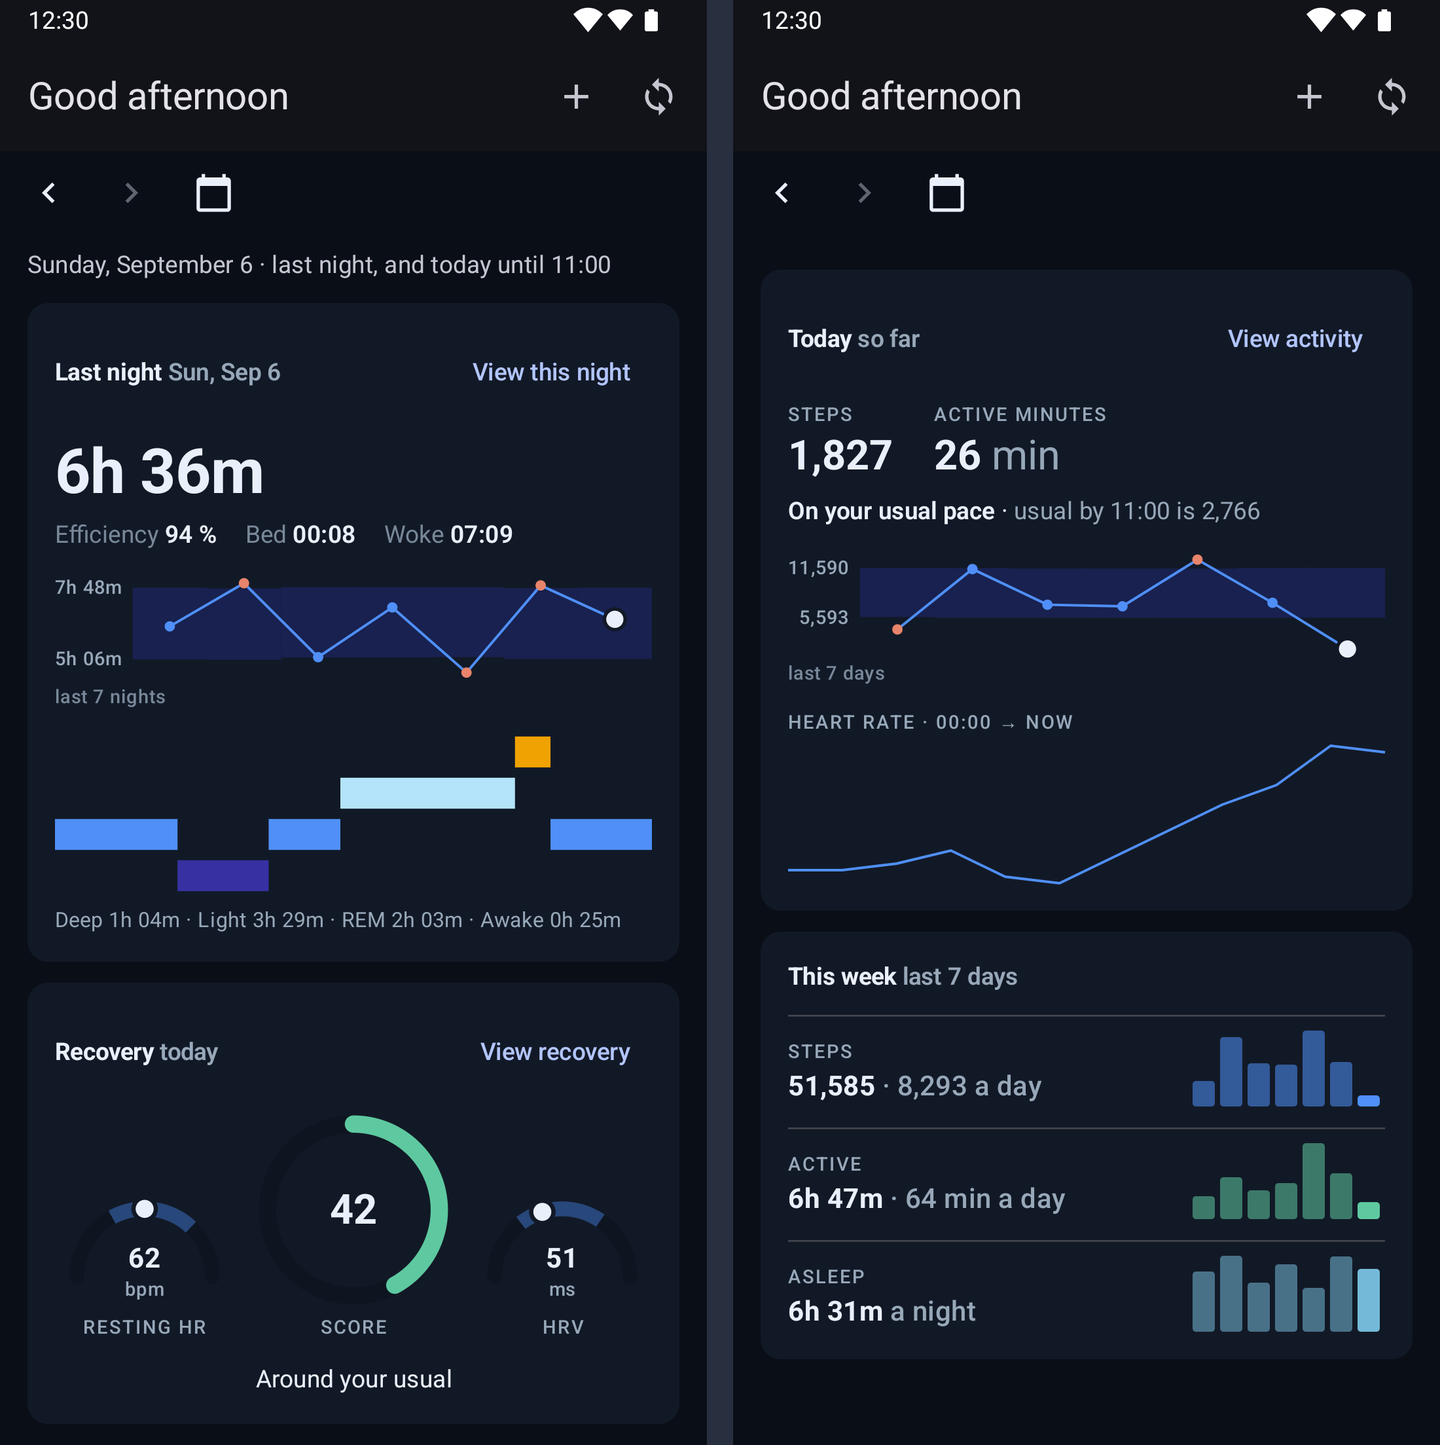
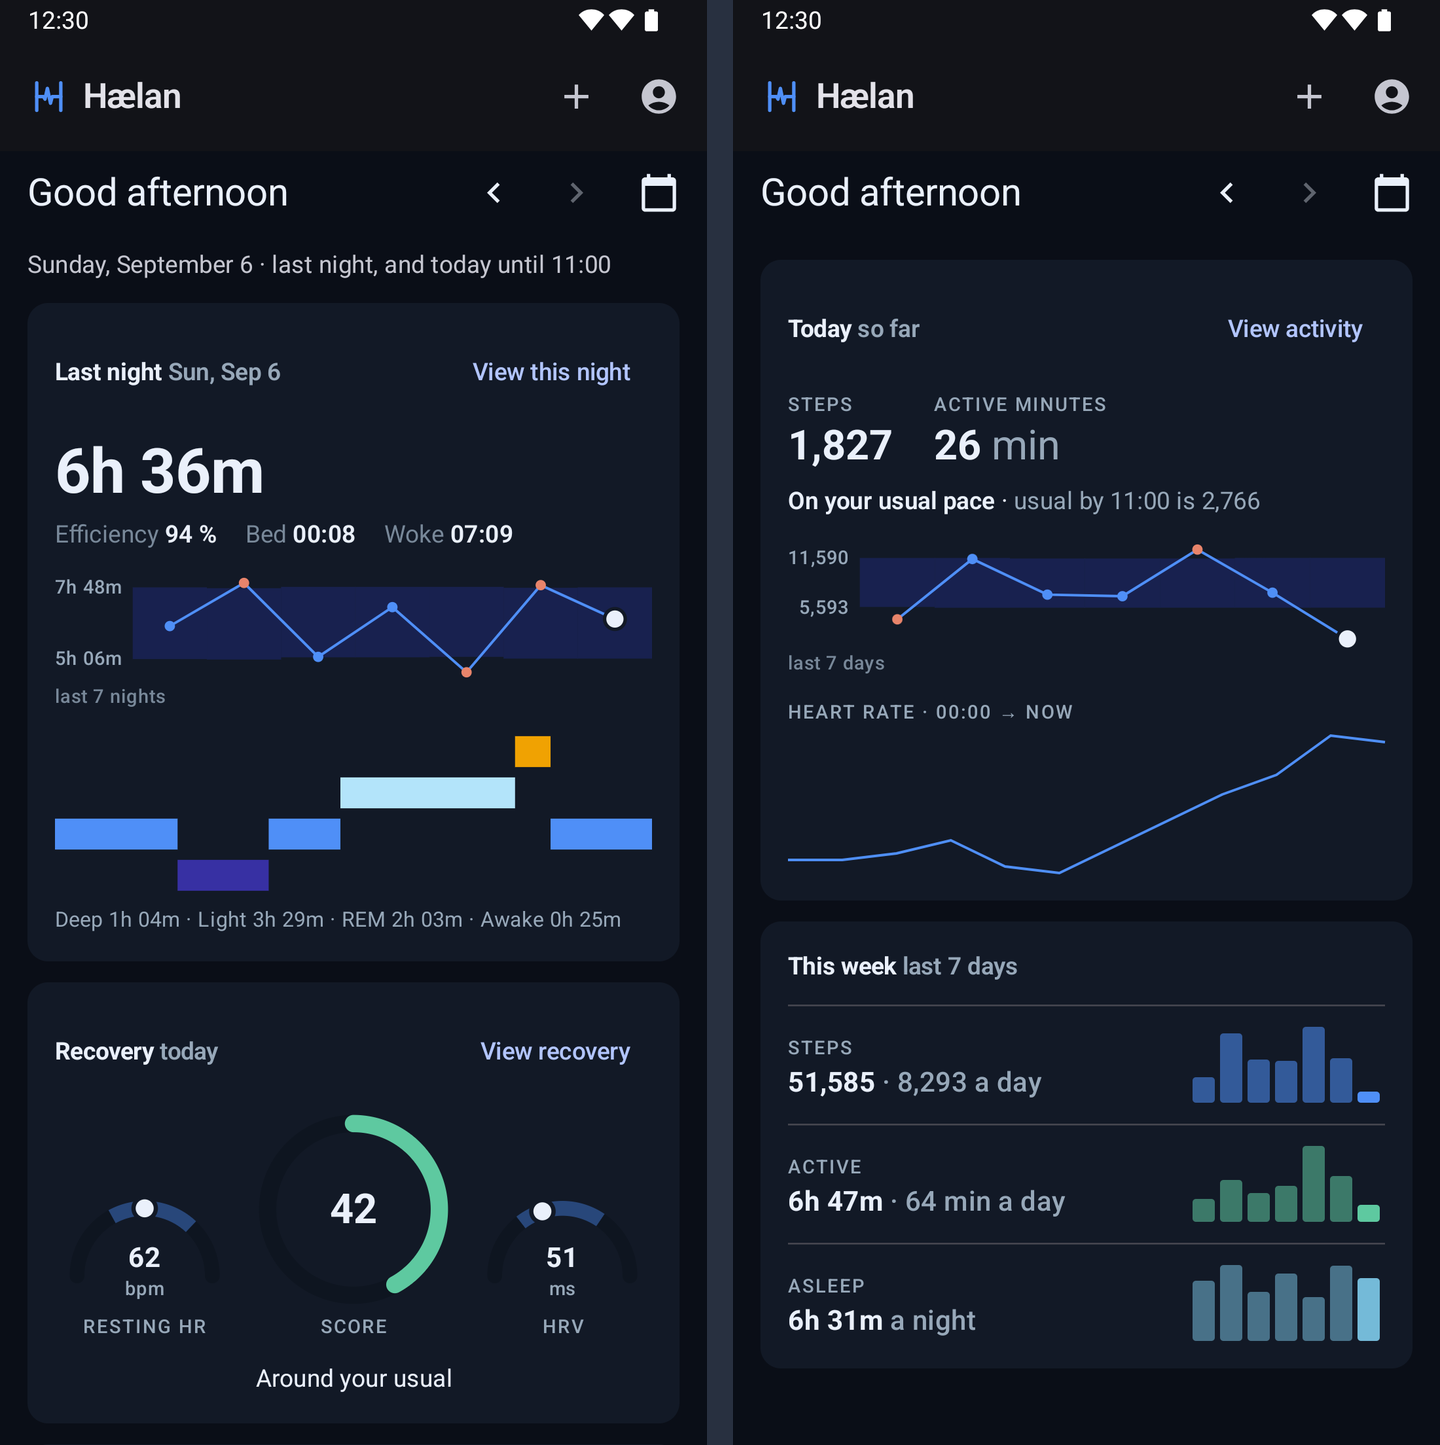
feat(android): the glance's top bar carries the brand, the day row its title
The top bar now opens with the mark and the name, as the web shell's top left
does, and ends with + and an account button (Material account_circle, with a
"Sync & account" tooltip) in place of the sync arrows; it opens the same sync
screen. The greeting, or the short date on a past day, moves to the start of
the day row, ellipsizing before the arrows, the calendar and Today are pushed
off at 360dp.

ic_brand_mark now writes the web's two paths word for word, and the web's
brand-mark test holds it to render-icons.mjs with the other copies. The README
phone screenshot is retaken with the new header.

diff --git a/apps/android/app/src/main/java/com/haelan/android/glance/ui/GlanceScreen.kt b/apps/android/app/src/main/java/com/haelan/android/glance/ui/GlanceScreen.kt
@@ -5,7 +5,6 @@ import androidx.compose.foundation.layout.Box
 import androidx.compose.foundation.layout.BoxWithConstraints
 import androidx.compose.foundation.layout.Column
 import androidx.compose.foundation.layout.Row
-import androidx.compose.foundation.layout.Spacer
 import androidx.compose.foundation.layout.fillMaxSize
 import androidx.compose.foundation.layout.fillMaxWidth
 import androidx.compose.foundation.layout.heightIn
@@ -17,10 +16,15 @@ import androidx.compose.material3.ExperimentalMaterial3Api
 import androidx.compose.material3.Icon
 import androidx.compose.material3.IconButton
 import androidx.compose.material3.MaterialTheme
+import androidx.compose.material3.PlainTooltip
 import androidx.compose.material3.Scaffold
 import androidx.compose.material3.Text
 import androidx.compose.material3.TextButton
+import androidx.compose.material3.TooltipAnchorPosition
+import androidx.compose.material3.TooltipBox
+import androidx.compose.material3.TooltipDefaults
 import androidx.compose.material3.TopAppBar
+import androidx.compose.material3.rememberTooltipState
 import androidx.compose.material3.pulltorefresh.PullToRefreshBox
 import androidx.compose.runtime.Composable
 import androidx.compose.runtime.LaunchedEffect
@@ -36,12 +40,16 @@ import androidx.compose.ui.platform.LocalResources
 import androidx.compose.ui.res.painterResource
 import androidx.compose.ui.res.stringResource
 import androidx.compose.ui.semantics.LiveRegionMode
+import androidx.compose.ui.semantics.clearAndSetSemantics
+import androidx.compose.ui.semantics.contentDescription
 import androidx.compose.ui.semantics.heading
 import androidx.compose.ui.semantics.liveRegion
 import androidx.compose.ui.semantics.semantics
+import androidx.compose.ui.text.font.FontWeight
 import androidx.compose.ui.text.style.TextAlign
 import androidx.compose.ui.text.style.TextOverflow
 import androidx.compose.ui.unit.dp
+import androidx.compose.ui.unit.sp
 import com.haelan.android.R
 import com.haelan.android.glance.CalendarUiState
 import com.haelan.android.glance.Glance
@@ -179,18 +187,19 @@ fun rememberCardText(zone: ZoneId): CardText {
 }
 
 /**
- * The glance: the web dashboard's phone layout, the cards stacked under a top bar that greets on
- * today and names the date on a finished day. Draws [state] and nothing else; every tap leaves
+ * The glance: the web dashboard's phone layout, the cards stacked under a top bar that carries the
+ * brand, and a day row that greets on today and names the date on a finished day ([dayTitle]).
+ * Draws [state] and nothing else; every tap leaves
  * through a callback, [onOpenDay] for an arrow, a strip dot, a week bar or a calendar day (a local
  * date from the payload) and [onOpenPage] for a card's link or a workout row (the web path it would
  * open, and the card's heading as the opened page's title).
  *
- * A row under the top bar carries the day controls ([DayNavState]): ‹ and ›, the calendar, and
- * Today on a past day. Pulling the page down asks again ([onRefresh]), as Try again does on the unreachable page;
+ * A row under the top bar carries that title and the day controls ([DayNavState]): ‹ and ›, the
+ * calendar, and Today on a past day. Pulling the page down asks again ([onRefresh]), as Try again does on the unreachable page;
  * the pull's spinner shows only for a pull, since the page also revalidates on its own (on resume,
  * after a sync) and the web does not announce those either.
  *
- * A + beside sync opens the log sheet ([onOpenLog]) only when the glance carries `log`, which is
+ * A + beside the account button (the way to sync) opens the log sheet ([onOpenLog]) only when the glance carries `log`, which is
  * the person's quick-logging switch as the server reports it; the sheet itself is [logSheet],
  * drawn while it is open, with [logActions] for everything done in it.
  *
@@ -218,23 +227,18 @@ fun GlanceScreen(
 ) {
     val shownDay = state?.shownDay
     val nav = DayNavState.from(state)
-    val title = if (shownDay == null) text.words.greeting(nowMs) else GlanceFormat.headerDate(shownDay, text.locale, short = true)
+    val title = dayTitle(shownDay, text.words, text.locale, nowMs)
     Scaffold(
         topBar = {
             TopAppBar(
-                title = { Text(title, maxLines = 1, overflow = TextOverflow.Ellipsis) },
+                title = { Brand() },
                 actions = {
                     if (showsLogButton(state, nowMs, text.zone)) {
                         IconButton(onClick = onOpenLog) {
                             Icon(painterResource(R.drawable.ic_add), stringResource(R.string.log_panel_open))
                         }
                     }
-                    IconButton(onClick = onOpenSync) {
-                        Icon(
-                            painter = painterResource(R.drawable.ic_sync),
-                            contentDescription = stringResource(R.string.glance_sync_open),
-                        )
-                    }
+                    AccountButton(onOpenSync)
                 },
             )
         },
@@ -247,7 +251,7 @@ fun GlanceScreen(
         Column(Modifier.fillMaxSize().padding(padding)) {
             // Outside the scroll and the stepping dim, on every body: always reachable, always at
             // full strength, and the page keeps its shape whether or not there is a day to step to.
-            DayRow(nav, onOpenDay, onToday, onOpenCalendar)
+            DayRow(title, nav, onOpenDay, onToday, onOpenCalendar)
             PullToRefreshBox(
                 isRefreshing = pulled && loading,
                 onRefresh = {
@@ -284,27 +288,89 @@ fun GlanceScreen(
 }
 
 /**
- * ‹, ›, the calendar and, on a past day, Today: the web's DayNav, on its own row under the top bar
- * as the web header has it, since a 360dp bar holding them beside the title and sync left the title
- * a few letters. Disabled rather than hidden where there is nowhere to go, so the row keeps its
- * shape; Today alone comes and goes, at the far end, as on the web. Touch only: the web's arrow keys
- * and T are a keyboard's, and a phone has none.
+ * The day row's title: the greeting on today, the short date ("Sat, Sep 5") on a past day, as the
+ * web's header title is. The greeting is the one thing here the payload does not say: it is the
+ * person's hour at [nowMs], not a fact about their data.
+ */
+internal fun dayTitle(shownDay: String?, words: GlanceWords, locale: Locale, nowMs: Long): String =
+    if (shownDay == null) words.greeting(nowMs) else GlanceFormat.headerDate(shownDay, locale, short = true)
+
+/**
+ * The top bar's start: the mark and the name, the pairing the web shell puts in its top left, so
+ * the glance says whose app it is where the sign-in and sync screens do. One description for the
+ * two, the name (the mark alone says nothing a reader could hear), and no action: it is not a
+ * button. "Hælan" is the brand, the same in every language, so it is app_name rather than copy.
+ */
+@Composable
+private fun Brand() {
+    val name = stringResource(R.string.app_name)
+    Row(
+        verticalAlignment = Alignment.CenterVertically,
+        horizontalArrangement = Arrangement.spacedBy(8.dp),
+        modifier = Modifier.clearAndSetSemantics { contentDescription = name },
+    ) {
+        Icon(painterResource(R.drawable.ic_brand_mark), contentDescription = null, tint = LocalGlanceColors.current.accent)
+        // A wordmark rather than a title: a step smaller than the day's title below it and heavier,
+        // as the approved header has it, so the two do not read as two headings of one size.
+        Text(
+            name,
+            style = MaterialTheme.typography.titleLarge.copy(fontSize = 20.sp, fontWeight = FontWeight.SemiBold, letterSpacing = (-0.2).sp),
+            maxLines = 1,
+        )
+    }
+}
+
+/**
+ * The way to the sync screen, which also holds the account and sign-out: Material's account
+ * symbol, as a phone app's top-right corner reads. A long press names it, since the symbol alone
+ * does not say that sync is behind it.
+ */
+@OptIn(ExperimentalMaterial3Api::class)
+@Composable
+private fun AccountButton(onOpenSync: () -> Unit) {
+    val label = stringResource(R.string.glance_account_open)
+    TooltipBox(
+        // Below: the button sits at the top of the screen, where above has no room.
+        positionProvider = TooltipDefaults.rememberTooltipPositionProvider(TooltipAnchorPosition.Below),
+        tooltip = { PlainTooltip { Text(label) } },
+        state = rememberTooltipState(),
+    ) {
+        IconButton(onClick = onOpenSync) {
+            Icon(painterResource(R.drawable.ic_account), contentDescription = label)
+        }
+    }
+}
+
+/**
+ * The day's title, then ‹, ›, the calendar and, on a past day, Today: the web's header row, its
+ * title beside its DayNav, on its own row under the top bar. The title takes what the controls
+ * leave and ellipsizes, so at 360dp a long date shortens rather than pushing Today off the edge.
+ * The controls are disabled rather than hidden where there is nowhere to go, so the row keeps its
+ * shape; Today alone comes and goes, at the far end, as on the web. Touch only: the web's arrow
+ * keys and T are a keyboard's, and a phone has none.
  */
 @Composable
 private fun DayRow(
+    title: String,
     nav: DayNavState,
     onOpenDay: (String) -> Unit,
     onToday: () -> Unit,
     onOpenCalendar: (selected: String, today: String) -> Unit,
 ) {
     Row(
-        Modifier.fillMaxWidth().heightIn(min = 48.dp).padding(horizontal = 4.dp),
+        Modifier.fillMaxWidth().heightIn(min = 48.dp).padding(start = 16.dp, end = 4.dp),
         verticalAlignment = Alignment.CenterVertically,
     ) {
+        Text(
+            title,
+            style = MaterialTheme.typography.titleLarge,
+            maxLines = 1,
+            overflow = TextOverflow.Ellipsis,
+            modifier = Modifier.weight(1f).semantics { heading() },
+        )
         DayButtons(nav, onOpenDay, onOpenCalendar)
-        Spacer(Modifier.weight(1f))
         if (nav.showToday) {
-            TextButton(onClick = onToday) { Text(stringResource(R.string.glance_day_nav_today)) }
+            TextButton(onClick = onToday) { Text(stringResource(R.string.glance_day_nav_today), maxLines = 1) }
         }
     }
 }

diff --git a/apps/android/app/src/test/java/com/haelan/android/glance/ui/GlanceScreenRulesTest.kt b/apps/android/app/src/test/java/com/haelan/android/glance/ui/GlanceScreenRulesTest.kt
@@ -8,6 +8,10 @@ import com.haelan.android.glance.GlanceUiState.Problem
 import com.haelan.android.glance.GlanceWeek
 import com.haelan.android.glance.GlanceWeekFigure
 import com.haelan.android.glance.figure
+import com.haelan.android.glance.format.DUTCH_TEXT
+import com.haelan.android.glance.format.ENGLISH_TEXT
+import com.haelan.android.glance.format.GlanceWords
+import com.haelan.android.glance.format.MapStrings
 import com.haelan.android.glance.glance
 import com.haelan.android.glance.glanceFixture
 import com.haelan.android.glance.recovery
@@ -16,6 +20,7 @@ import org.junit.Test
 import java.time.Instant
 import java.time.ZoneId
 import java.time.ZoneOffset
+import java.util.Locale
 
 /**
  * Which cards the glance shows and in what order: the web's dashboardRows.ts cases, read for a
@@ -161,5 +166,17 @@ class GlanceScreenRulesTest {
         val confirmed = GlanceUiState(shownDay = null, glance = glance().copy(log = log), fetchedAtMs = lateEvening, reachable = true, loading = false, problem = null, confirmed = true)
         assertEquals(true, showsLogButton(confirmed, Instant.parse("2026-08-20T21:59:00Z").toEpochMilli(), zone))
         assertEquals(false, showsLogButton(confirmed, Instant.parse("2026-08-20T22:01:00Z").toEpochMilli(), zone))
+    }
+
+    @Test
+    fun `the day row is titled with the greeting on today and the short date on a past day`() {
+        val zone = ZoneId.of("Europe/Amsterdam")
+        val evening = Instant.parse("2026-09-06T18:30:00Z").toEpochMilli() // 20:30 there
+        val english = GlanceWords(MapStrings(ENGLISH_TEXT), Locale.ENGLISH, zone)
+        val dutch = GlanceWords(MapStrings(DUTCH_TEXT), Locale.forLanguageTag("nl-NL"), zone)
+        assertEquals("Good evening", dayTitle(null, english, Locale.ENGLISH, evening))
+        assertEquals("Sat, Sep 5", dayTitle("2026-09-05", english, Locale.ENGLISH, evening))
+        assertEquals("Goedenavond", dayTitle(null, dutch, Locale.forLanguageTag("nl-NL"), evening))
+        assertEquals("za 5 sep", dayTitle("2026-09-05", dutch, Locale.forLanguageTag("nl-NL"), evening))
     }
 }

diff --git a/apps/web/test/brand-mark.test.tsx b/apps/web/test/brand-mark.test.tsx
@@ -88,16 +88,18 @@ describe('the setup column wears the mark', () => {
   })
 })
 
-// The mark's geometry lives in scripts/render-icons.mjs, and three files write it out again
-// because none of them can read that script at runtime: a React component, a tab icon and a
-// README image. Nothing else pins them together, and a mark that differs between the rail and the
-// tab is the kind of drift nobody reports as a bug.
-describe('one geometry, written out in four places', () => {
+// The mark's geometry lives in scripts/render-icons.mjs, and four files write it out again
+// because none of them can read that script at runtime: a React component, a tab icon, a README
+// image and the Android app's vector drawable (the phone glance's top bar, sign-in and sync
+// screens). Nothing else pins them together, and a mark that differs between the rail and the
+// tab, or between the web and the phone, is the kind of drift nobody reports as a bug.
+describe('one geometry, written out in five places', () => {
   const read = (path: string) => readFileSync(repo(path), 'utf8')
   const sources = {
     'BrandMark.tsx': read('src/components/BrandMark.tsx'),
     'favicon.svg': read('public/favicon.svg'),
     'mark.svg': read('../../assets/brand/mark.svg'),
+    'ic_brand_mark.xml': read('../android/app/src/main/res/drawable/ic_brand_mark.xml'),
   }
 
   it.each(Object.entries(sources))('%s carries the same two paths', async (_name, source) => {

diff --git a/apps/android/app/src/test/java/com/haelan/android/glance/format/GlanceText.kt b/apps/android/app/src/test/java/com/haelan/android/glance/format/GlanceText.kt
@@ -213,6 +213,8 @@ internal val ENGLISH_TEXT: Map<String, String> = mapOf(
     // The phone's own: the web reorders chips by dragging, so it has no words for these buttons.
     "log_panel_edit_move_earlier" to "Move {{kind}} earlier",
     "log_panel_edit_move_later" to "Move {{kind}} later",
+    // The phone's own too: the web keeps its account in the rail, so no button of its is named.
+    "glance_account_open" to "Sync & account",
 )
 
 internal val DUTCH_TEXT: Map<String, String> = mapOf(
@@ -422,6 +424,7 @@ internal val DUTCH_TEXT: Map<String, String> = mapOf(
     // The phone's own: the web reorders chips by dragging, so it has no words for these buttons.
     "log_panel_edit_move_earlier" to "{{kind}} naar voren verplaatsen",
     "log_panel_edit_move_later" to "{{kind}} naar achteren verplaatsen",
+    "glance_account_open" to "Synchroniseren en account",
 )
 
 /** Strings over one of the maps above, failing loudly on a key the map does not have. */

diff --git a/apps/android/app/src/main/java/com/haelan/android/glance/ui/GlanceStrings.kt b/apps/android/app/src/main/java/com/haelan/android/glance/ui/GlanceStrings.kt
@@ -219,6 +219,7 @@ internal val GLANCE_STRING_IDS: Map<String, Int> = mapOf(
     "control_row_close" to R.string.control_row_close,
     "log_panel_edit_move_earlier" to R.string.log_panel_edit_move_earlier,
     "log_panel_edit_move_later" to R.string.log_panel_edit_move_later,
+    "glance_account_open" to R.string.glance_account_open,
 )
 
 /**

diff --git a/apps/android/README.md b/apps/android/README.md
@@ -9,8 +9,8 @@ server payload: last night, recovery, today so far and the week, with arrows and
 to step to an earlier day, and a `+` that opens the log sheet when quick logging is switched on for
 the person. The last glance for today is kept on the phone, encrypted, and shown with the time it
 was fetched when the instance cannot be reached. A card's link opens that page of the web app
-inside the app, already signed in, and the sync button in the top bar leads to Health Connect,
-the sync and sign-out.
+inside the app, already signed in, and the account button in the top bar leads to Health
+Connect, the sync and sign-out.
 
 ## Build
 
